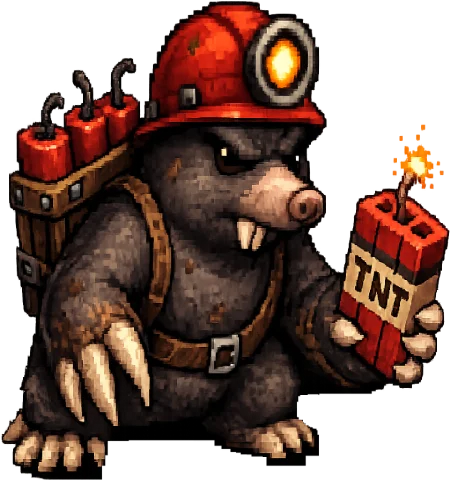
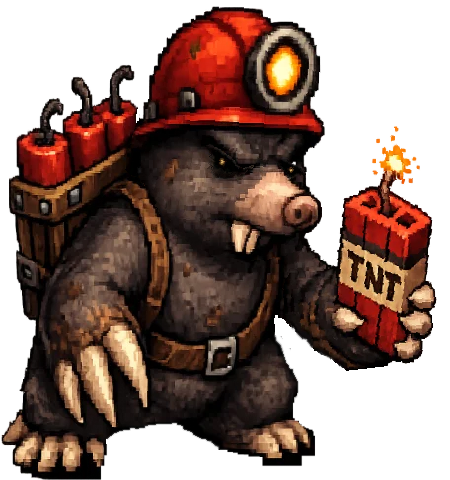
Combate: conecta animaciones de Escorpiones (1/2/3) y retoca topos
- scorpion-1/2/3 con su animacion propia en la pantalla de seleccion de enemigo y en resultados, mismo patron que aranas/murcielagos/topos
- Escorpion-2 renombrado de "Venenoso" a "de Fuego" para encajar con el arte
- Retoque de los iconos estaticos de topo-1/2/3
- El escorpion-boss (rey) se deja para mas adelante

diff --git a/src/components/Preloader.jsx b/src/components/Preloader.jsx
@@ -256,6 +256,9 @@ import scorpion1 from "../assets/ui/icons-enemy/scorpions/scorpion-1.webp"
 import scorpion2 from "../assets/ui/icons-enemy/scorpions/scorpion-2.webp"
 import scorpion3 from "../assets/ui/icons-enemy/scorpions/scorpion-3.webp"
 import scorpionBoss from "../assets/ui/icons-enemy/scorpions/scorpion-boss.webp"
+import scorpion1Select from "../assets/ui/icons-enemy/enemy-animation/scorpions/scorpion001.webp"
+import scorpion2Select from "../assets/ui/icons-enemy/enemy-animation/scorpions/scorpion002.webp"
+import scorpion3Select from "../assets/ui/icons-enemy/enemy-animation/scorpions/scorpion003.webp"
 import cardBat from "../assets/ui/icons-enemy/hud/card-bat.webp"
 import cardTopo from "../assets/ui/icons-enemy/hud/card-topo.webp"
 import cardScorpion from "../assets/ui/icons-enemy/hud/card-scorpion.webp"
@@ -515,7 +518,7 @@ const IMAGES = [
     bat1, bat2, bat3, batBoss, bgCombatBats, bat1Select, bat2Select, bat3Select, batBossSelect,
     topo1, topo2, topo3, topoBoss, bgCombatTopos, topo1Select, topo2Select, topo3Select, topoBossSelect,
     spider1, spider2, spider3, spiderBoss, spider1Select, spider2Select, spider3Select, spiderBossSelect,
-    scorpion1, scorpion2, scorpion3, scorpionBoss,
+    scorpion1, scorpion2, scorpion3, scorpionBoss, scorpion1Select, scorpion2Select, scorpion3Select,
     cardBat, cardTopo, cardScorpion, cardSpiders,
     marcoEnemy0, marcoEnemy1, marcoEnemy2, marcoEnemy3,
     marcoSlotRare, marcoSlotEpic, marcoSlotLegend, marcoSkinUltimate,

diff --git a/src/screens/modalCombat/CombatScreen.jsx b/src/screens/modalCombat/CombatScreen.jsx
@@ -58,6 +58,9 @@ import bat1SelectImg from '../../assets/ui/icons-enemy/enemy-animation/bats/bat0
 import bat2SelectImg from '../../assets/ui/icons-enemy/enemy-animation/bats/bat002.webp';
 import bat3SelectImg from '../../assets/ui/icons-enemy/enemy-animation/bats/bat003.webp';
 import batBossSelectImg from '../../assets/ui/icons-enemy/enemy-animation/bats/bat-boss.webp';
+import scorpion1SelectImg from '../../assets/ui/icons-enemy/enemy-animation/scorpions/scorpion001.webp';
+import scorpion2SelectImg from '../../assets/ui/icons-enemy/enemy-animation/scorpions/scorpion002.webp';
+import scorpion3SelectImg from '../../assets/ui/icons-enemy/enemy-animation/scorpions/scorpion003.webp';
 import spider2Img    from '../../assets/ui/icons-enemy/spiders/spider-2.webp';
 import spider3Img    from '../../assets/ui/icons-enemy/spiders/spider-3.webp';
 import spiderBossImg from '../../assets/ui/icons-enemy/spiders/spider-boss.webp';
@@ -196,6 +199,9 @@ const ENEMY_SELECT_IMG_OVERRIDE = {
     'topo-2': topo2SelectImg,
     'topo-3': topo3SelectImg,
     'topo-boss': topoBossSelectImg,
+    'scorpion-1': scorpion1SelectImg,
+    'scorpion-2': scorpion2SelectImg,
+    'scorpion-3': scorpion3SelectImg,
 };
 
 const enemyImgs = {

diff --git a/src/game/config/CombatConfig.js b/src/game/config/CombatConfig.js
@@ -261,7 +261,7 @@ export const CombatConfig = {
                 },
                 {
                     id: 'scorpion-2',
-                    name: 'Escorpión Venenoso',
+                    name: 'Escorpión de Fuego',
                     hp: 1500,
                     defense: 12,
                     timerSec: 20,
